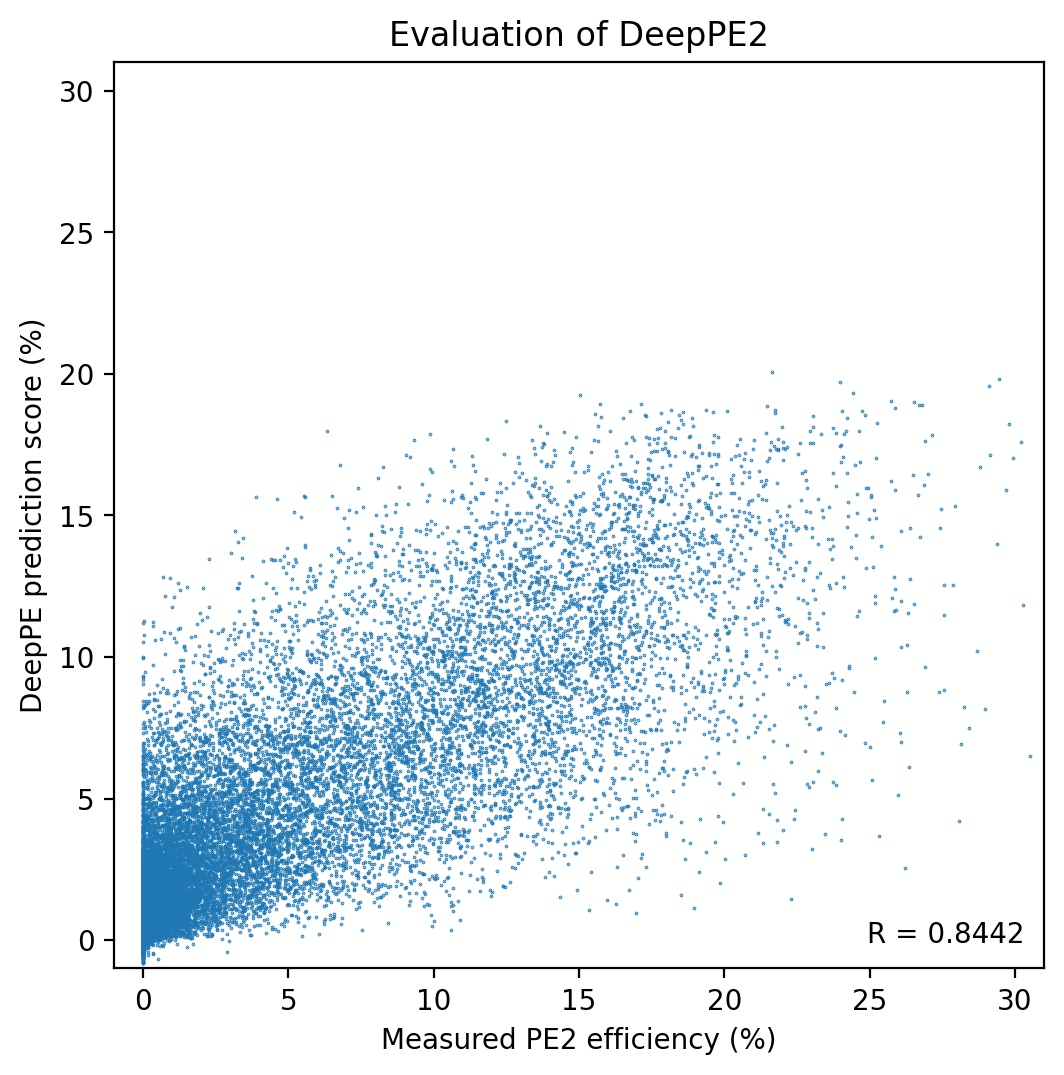
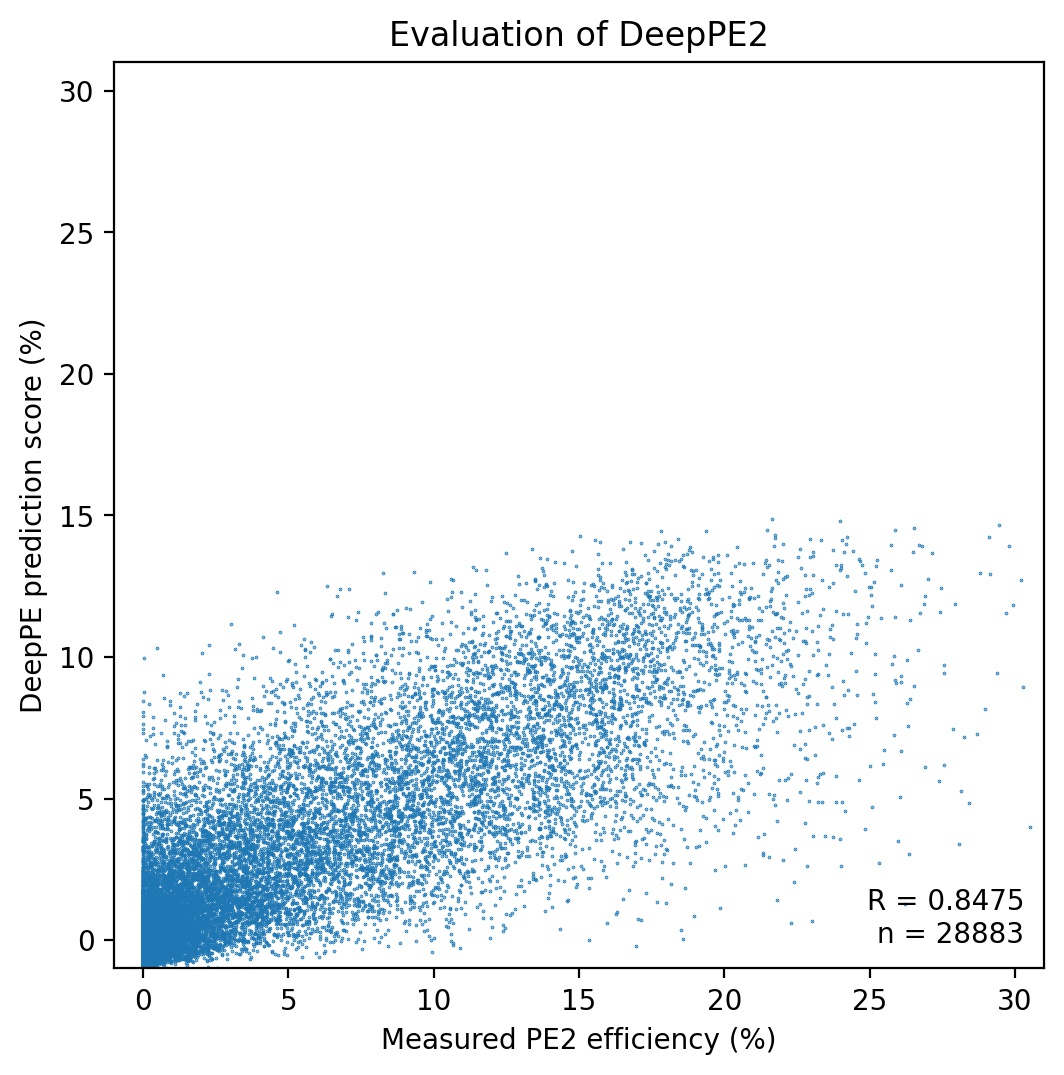
Implemented MSLELoss & BatchNorm.

diff --git a/DeepPE.py b/DeepPE.py
@@ -1,3 +1,4 @@
+# %%
 import sys
 import os
 import math
@@ -41,21 +42,25 @@ class GeneInteractionModel(nn.Module):
         self.c1 = nn.Sequential(
             nn.Conv2d(in_channels=4, out_channels=72,
                       kernel_size=(2, 3), stride=1, padding=(0, 1)),
+            nn.BatchNorm2d(72),
             nn.GELU(),
         )
         self.c2 = nn.Sequential(
             nn.Conv1d(in_channels=72, out_channels=64,
                       kernel_size=3, stride=1, padding=1),
+            nn.BatchNorm1d(64),
             nn.GELU(),
             nn.AvgPool1d(kernel_size=2, stride=2),
 
             nn.Conv1d(in_channels=64, out_channels=64,
                       kernel_size=3, stride=1, padding=1),
+            nn.BatchNorm1d(64),
             nn.GELU(),
             nn.AvgPool1d(kernel_size=2, stride=2),
 
             nn.Conv1d(in_channels=64, out_channels=96,
                       kernel_size=3, stride=1, padding=1),
+            nn.BatchNorm1d(96),
             nn.GELU(),
             nn.AvgPool1d(kernel_size=2, stride=2),
         )
@@ -77,6 +82,7 @@ class GeneInteractionModel(nn.Module):
 
         self.head = nn.Sequential(
             # nn.ReLU(),
+            nn.BatchNorm1d(88),
             nn.Dropout(0.25),
             nn.Linear(88, 1, bias=True),
         )
@@ -92,6 +98,15 @@ class GeneInteractionModel(nn.Module):
         out = self.head(torch.cat((g, x), dim=1))
 
         return out
+
+
+class MSLELoss(nn.Module):
+    def __init__(self):
+        super().__init__()
+        self.mse = nn.MSELoss()
+        
+    def forward(self, pred, actual):
+        return self.mse(torch.log(F.softplus(pred) + 1), torch.log(F.softplus(actual) + 1))
 
 
 class GeneFeatureDataset(Dataset):
@@ -240,17 +255,17 @@ pf_target = train_PF.Measured_PE_efficiency
 # NORMALIZATION
 
 x_train = (train_features - train_features.mean()) / train_features.std()
-y_train = (train_target - train_target.mean()) / train_target.std()
+y_train = train_target / train_target.std()
 x_train = x_train.to_numpy()
 y_train = y_train.to_numpy()
 
 x_test = (test_features - train_features.mean()) / train_features.std()
-y_test = (test_target - train_target.mean()) / train_target.std()
+y_test = test_target / train_target.std()
 x_test = x_test.to_numpy()
 y_test = y_test.to_numpy()
 
 x_pf = (pf_features - train_features.mean()) / train_features.std()
-y_pf = (pf_target - train_target.mean()) / train_target.std()
+y_pf = pf_target / train_target.std()
 x_pf = x_pf.to_numpy()
 y_pf = y_pf.to_numpy()
 
@@ -267,12 +282,14 @@ x_pf = torch.tensor(x_pf, dtype=torch.float32, device=device)
 y_pf = torch.tensor(y_pf, dtype=torch.float32, device=device)
 
 
+# %%
+
 # PARAMS
 
 batch_size = 2048
-learning_rate = 4e-3
-weight_decay = 1e-2
-T_0 = 12
+learning_rate = 5e-3
+weight_decay = 1e-3
+T_0 = 10
 T_mult = 1
 hidden_size = 128
 n_layers = 1
@@ -280,15 +297,115 @@ n_epochs = 10
 n_models = 10
 
 
+# TRAINING & VALIDATION
+
+for m in range(n_models):
+
+    random_seed = m
+
+    torch.manual_seed(random_seed)
+    torch.cuda.manual_seed(random_seed)
+    torch.cuda.manual_seed_all(random_seed)
+    np.random.seed(random_seed)
+
+    for fold in range(5):
+
+        best_score = [10., 10., 0.]
+
+        model = GeneInteractionModel(
+            hidden_size=hidden_size, num_layers=n_layers).to(device)
+
+        train_set = GeneFeatureDataset(
+            g_train, x_train, y_train, fold, 'train', train_fold)
+        valid_set = GeneFeatureDataset(
+            g_train, x_train, y_train, fold, 'valid', train_fold)
+        pf_set = GeneFeatureDataset(g_pf, x_pf, y_pf, None, 'train', None)
+
+        train_loader = DataLoader(
+            dataset=train_set, batch_size=batch_size, shuffle=True, num_workers=0)
+        valid_loader = DataLoader(
+            dataset=valid_set, batch_size=batch_size, shuffle=True, num_workers=0)
+        pf_loader = DataLoader(
+            dataset=pf_set, batch_size=batch_size, shuffle=True, num_workers=0)
+
+        criterion = MSLELoss()
+        optimizer = optim.AdamW(
+            model.parameters(), lr=learning_rate, weight_decay=weight_decay)
+        scheduler = optim.lr_scheduler.CosineAnnealingWarmRestarts(
+            optimizer, T_0=T_0, T_mult=T_mult, eta_min=learning_rate/100)
+
+        n_iters = len(train_loader)
+
+        for epoch in tqdm(range(n_epochs)):
+            train_loss, valid_loss = [], []
+            train_count, valid_count = 0, 0
+
+            model.train()
+
+            for i, (g, x, y) in enumerate(train_loader):
+                g = g.permute((0, 3, 1, 2))
+                y = y.reshape(-1, 1)
+
+                pred = model(g, x)
+                loss = criterion(pred, y)
+
+                optimizer.zero_grad()
+                loss.backward()
+                optimizer.step()
+                scheduler.step(epoch + i / n_iters)
+
+                train_loss.append(x.size(0) * loss.detach().cpu().numpy())
+                train_count += x.size(0)
+
+            model.eval()
+
+            pred_, y_ = None, None
+
+            with torch.no_grad():
+                for i, (g, x, y) in enumerate(valid_loader):
+                    g = g.permute((0, 3, 1, 2))
+                    y = y.reshape(-1, 1)
+
+                    pred = model(g, x)
+                    loss = criterion(pred, y)
+
+                    valid_loss.append(x.size(0) * loss.detach().cpu().numpy())
+                    valid_count += x.size(0)
+
+                    if pred_ is None:
+                        pred_ = pred.detach().cpu().numpy()
+                        y_ = y.detach().cpu().numpy()
+                    else:
+                        pred_ = np.concatenate(
+                            (pred_, pred.detach().cpu().numpy()))
+                        y_ = np.concatenate((y_, y.detach().cpu().numpy()))
+
+            train_loss = sum(train_loss) / train_count
+            valid_loss = sum(valid_loss) / valid_count
+
+            SPR = scipy.stats.spearmanr(pred_, y_).correlation
+
+            if valid_loss < best_score[1]:
+                best_score = [train_loss, valid_loss, SPR]
+
+                torch.save(model.state_dict(),
+                           'models/FM{:02}_auxiliary.pt'.format(fold))
+
+            print('[FOLD {:02}] [M {:03}/{:03}] [E {:03}/{:03}] : {:.4f} | {:.4f} | {:.4f}'.format(fold, m + 1,
+                                                                                                   n_models, epoch + 1, n_epochs, train_loss, valid_loss, SPR))
+        os.rename('models/FM{:02}_auxiliary.pt'.format(fold),
+                  'models/FM{:02}_{:.4f}.pt'.format(fold, best_score[1]))
+
+# %%
 def finetune_model(model, fold, pf_loader, valid_loader):
 
     # PARAMETERS FOR FINETUNING
 
-    learning_rate = 1e-5
-    weight_decay = 1e-4
+    learning_rate = 5e-5
+    weight_decay = 0e-5
     T_0 = 10
     T_mult = 1
-    n_epochs = 5
+    n_epochs = 1
 
     best_score = [10., 10., 0.]
 
@@ -297,7 +414,7 @@ def finetune_model(model, fold, pf_loader, valid_loader):
     #     if param.requires_grad and name.startswith('c') or name.startswith('r'):
     #         param.requires_grad = False
 
-    criterion = nn.MSELoss()
+    criterion = MSLELoss()
     optimizer = optim.AdamW(
         model.parameters(), lr=learning_rate, weight_decay=weight_decay)
     scheduler = optim.lr_scheduler.CosineAnnealingWarmRestarts(
@@ -366,108 +483,6 @@ def finetune_model(model, fold, pf_loader, valid_loader):
     os.rename('models/final/FM{:02}_auxiliary.pt'.format(fold),
               'models/final/FM{:02}.pt'.format(fold))
 
-    return model
-
-
-# TRAINING & VALIDATION
-
-for m in range(n_models):
-
-    random_seed = m
-
-    torch.manual_seed(random_seed)
-    torch.cuda.manual_seed(random_seed)
-    torch.cuda.manual_seed_all(random_seed)
-    np.random.seed(random_seed)
-
-    for fold in range(5):
-
-        best_score = [10., 10., 0.]
-
-        model = GeneInteractionModel(
-            hidden_size=hidden_size, num_layers=n_layers).to(device)
-
-        train_set = GeneFeatureDataset(
-            g_train, x_train, y_train, fold, 'train', train_fold)
-        valid_set = GeneFeatureDataset(
-            g_train, x_train, y_train, fold, 'valid', train_fold)
-        pf_set = GeneFeatureDataset(g_pf, x_pf, y_pf, None, 'train', None)
-
-        train_loader = DataLoader(
-            dataset=train_set, batch_size=batch_size, shuffle=True, num_workers=0)
-        valid_loader = DataLoader(
-            dataset=valid_set, batch_size=batch_size, shuffle=True, num_workers=0)
-        pf_loader = DataLoader(
-            dataset=pf_set, batch_size=batch_size, shuffle=True, num_workers=0)
-
-        criterion = nn.MSELoss()
-        optimizer = optim.AdamW(
-            model.parameters(), lr=learning_rate, weight_decay=weight_decay)
-        scheduler = optim.lr_scheduler.CosineAnnealingWarmRestarts(
-            optimizer, T_0=T_0, T_mult=T_mult, eta_min=learning_rate/100)
-
-        n_iters = len(train_loader)
-
-        for epoch in tqdm(range(n_epochs)):
-            train_loss, valid_loss = [], []
-            train_count, valid_count = 0, 0
-
-            model.train()
-
-            for i, (g, x, y) in enumerate(train_loader):
-                g = g.permute((0, 3, 1, 2))
-                y = y.reshape(-1, 1)
-
-                pred = model(g, x)
-                loss = criterion(pred, y)
-
-                optimizer.zero_grad()
-                loss.backward()
-                optimizer.step()
-                scheduler.step(epoch + i / n_iters)
-
-                train_loss.append(x.size(0) * loss.detach().cpu().numpy())
-                train_count += x.size(0)
-
-            model.eval()
-
-            pred_, y_ = None, None
-
-            with torch.no_grad():
-                for i, (g, x, y) in enumerate(valid_loader):
-                    g = g.permute((0, 3, 1, 2))
-                    y = y.reshape(-1, 1)
-
-                    pred = model(g, x)
-                    loss = criterion(pred, y)
-
-                    valid_loss.append(x.size(0) * loss.detach().cpu().numpy())
-                    valid_count += x.size(0)
-
-                    if pred_ is None:
-                        pred_ = pred.detach().cpu().numpy()
-                        y_ = y.detach().cpu().numpy()
-                    else:
-                        pred_ = np.concatenate(
-                            (pred_, pred.detach().cpu().numpy()))
-                        y_ = np.concatenate((y_, y.detach().cpu().numpy()))
-
-            train_loss = sum(train_loss) / train_count
-            valid_loss = sum(valid_loss) / valid_count
-
-            SPR = scipy.stats.spearmanr(pred_, y_).correlation
-
-            if valid_loss < best_score[1]:
-                best_score = [train_loss, valid_loss, SPR]
-
-                torch.save(model.state_dict(),
-                           'models/FM{:02}_auxiliary.pt'.format(fold))
-
-            print('[FOLD {:02}] [M {:03}/{:03}] [E {:03}/{:03}] : {:.4f} | {:.4f} | {:.4f}'.format(fold, m + 1,
-                                                                                                   n_models, epoch + 1, n_epochs, train_loss, valid_loss, SPR))
-        os.rename('models/FM{:02}_auxiliary.pt'.format(fold),
-                  'models/FM{:02}_{:.4f}.pt'.format(fold, best_score[1]))
-
 
 # MODEL FINE TUNING
 
@@ -501,8 +516,8 @@ for fold in range(5):
 
     model = finetune_model(model, fold, pf_loader, valid_loader)
 
-    torch.save(model.state_dict(), 'models/final/FM{:02}.pt'.format(fold))
 
+# %%
 
 # AVERAGE RESULTS & FINAL TEST
 
@@ -544,10 +559,11 @@ preds = np.mean(preds, axis=0)
 
 print(scipy.stats.spearmanr(preds, y_).correlation)
 
-preds = preds * train_target.std() + train_target.mean()
-y_ = y_ * train_target.std() + train_target.mean()
+preds = preds * train_target.std()
+y_ = y_ * train_target.std()
 
 preds = pd.DataFrame(preds, columns=['Predicted PE efficiency'])
 preds.to_csv('results/220218.csv', index=False)
 
 plot.plot_spearman(preds, y_, 'Evaluation of DeepPE2.jpg')
+# %%
